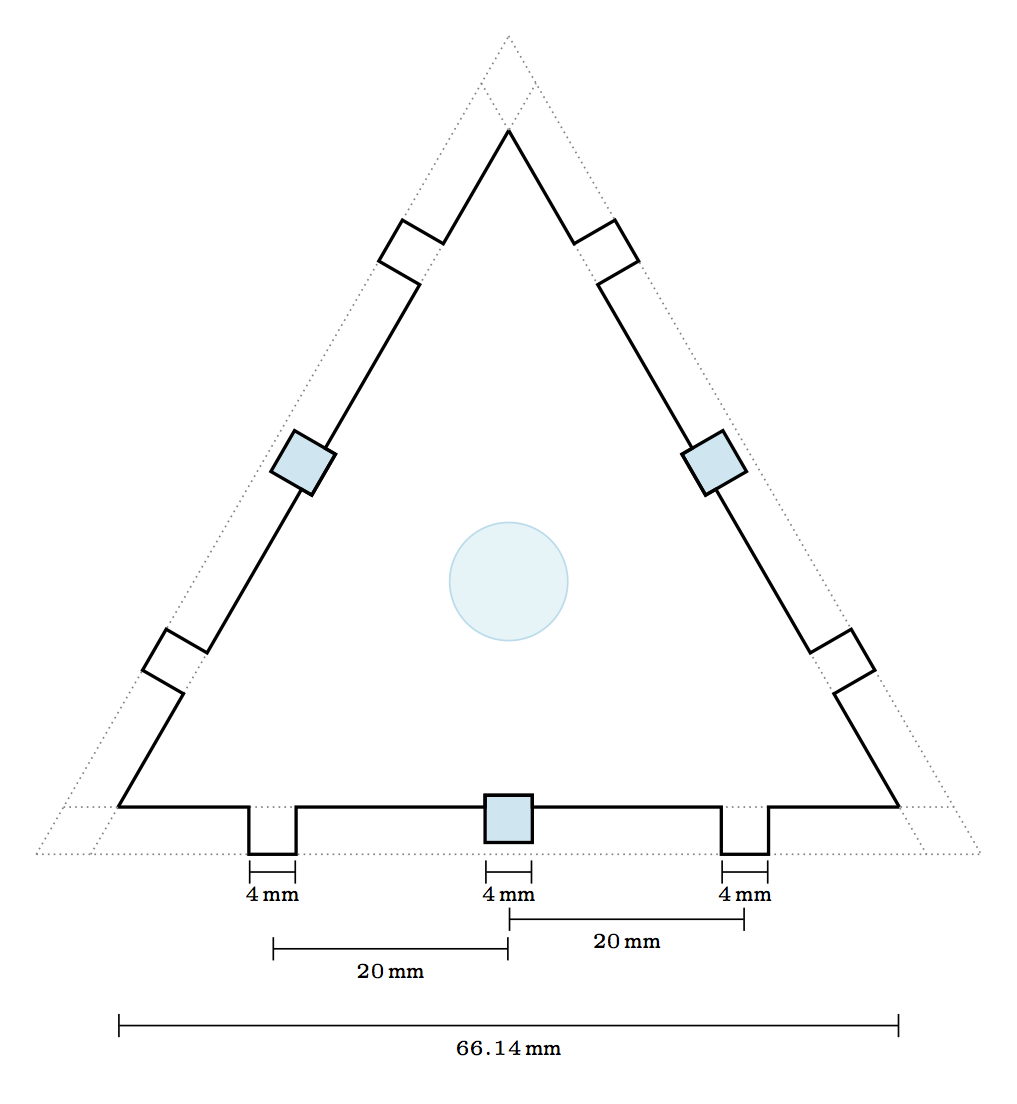
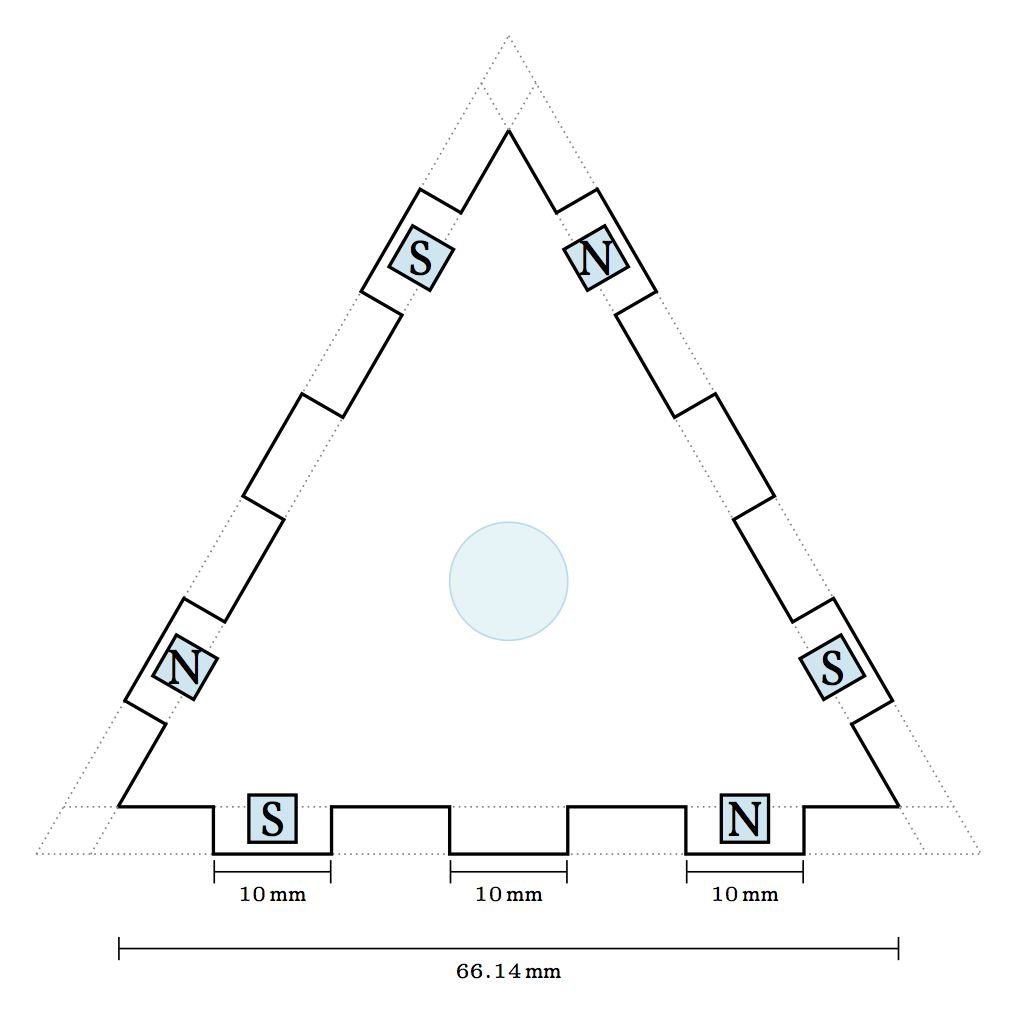
updates bottom pate form and magnet placement to be more symmetric.

diff --git a/tex/bottom.tex b/tex/bottom.tex
@@ -23,41 +23,48 @@
   \begin{tikzpicture}
     \draw[base] (-4,0) -- (4,0);
     \draw[base] ({- ( 4- \wTh*cot(60) )}, \wTh) -- ({4- \wTh*cot(60)},\wTh);
-    \draw[magnets] (-\mTh/2,5*\mTh/4) rectangle (\mTh/2,\mTh/4);
+    \draw [magnets] (-2-\mTh/2,5*\mTh/4) rectangle (-2+\mTh/2,\mTh/4);
+    \draw [magnets] (2-\mTh/2,5*\mTh/4) rectangle (2+\mTh/2,\mTh/4);
+    \node (A2) at (-2,3*\mTh/4) {\large S};
+    \node (A1) at (2,3*\mTh/4) {\large N};
     \draw[main] ({- ( 4- \wTh*cot(60) - \wTh/sin(60) )}, \wTh)
-      -- (-2-\wTh/2,\wTh) -- (-2-\wTh/2,0) -- (-2+\wTh/2,0) -- (-2+\wTh/2,\wTh)
-      -- (-\mTh/2,\wTh) -- (-\mTh/2,5*\wTh/4) -- (\mTh/2,5*\wTh/4) -- (\wTh/2,\wTh)
-      -- (2-\wTh/2,\wTh) -- (2-\wTh/2,0) -- (2+\wTh/2,0) -- (2+\wTh/2,\wTh) 
+      -- (-2.5,\wTh) -- (-2.5,0) -- (-1.5,0) -- (-1.5,\wTh)
+      -- (-.5,\wTh) -- (-.5,0) -- (.5,0) -- (.5,\wTh)
+      -- (1.5,\wTh) -- (1.5,0) -- (2.5,0) -- (2.5,\wTh) 
       -- ({4- \wTh*cot(60) - \wTh/sin(60)},\wTh);
     \begin{scope}[shift={(-2,{2*sqrt(3)})},rotate=60]
       \draw[base] (-4,0) -- (4,0);
       \draw[base] ({- ( 4- \wTh*cot(60) )},-\wTh) -- ({4- \wTh*cot(60)},-\wTh);
-      \draw[magnets] (-\mTh/2,-5*\mTh/4) rectangle (\mTh/2,-\mTh/4);
-    \draw[main] ({- ( 4- \wTh*cot(60) - \wTh/sin(60) )},-\wTh)
-      -- (-2-\wTh/2,-\wTh) -- (-2-\wTh/2,0) -- (-2+\wTh/2,0) -- (-2+\wTh/2,-\wTh)
-      -- (-\mTh/2,-\wTh) -- (-\mTh/2,-5*\wTh/4) -- (\mTh/2,-5*\wTh/4) -- (\wTh/2,-\wTh)
-      -- (2-\wTh/2,-\wTh) -- (2-\wTh/2,0) -- (2+\wTh/2,0) -- (2+\wTh/2,-\wTh) 
+    \draw [magnets] (-2-\mTh/2,-5*\mTh/4) rectangle (-2+\mTh/2,-\mTh/4);
+    \draw [magnets] (2-\mTh/2,-5*\mTh/4) rectangle (2+\mTh/2,-\mTh/4);
+    \node (A2) at (-2,-3*\mTh/4) {\large N};
+    \node (A1) at (2,-3*\mTh/4) {\large S};
+    \draw[main] ({- ( 4- \wTh*cot(60) - \wTh/sin(60) )}, -\wTh)
+      -- (-2.5,-\wTh) -- (-2.5,0) -- (-1.5,0) -- (-1.5,-\wTh)
+      -- (-.5,-\wTh) -- (-.5,0) -- (.5,0) -- (.5,-\wTh)
+      -- (1.5,-\wTh) -- (1.5,0) -- (2.5,0) -- (2.5,-\wTh) 
       -- ({4- \wTh*cot(60) - \wTh/sin(60)},-\wTh);
     \end{scope}
     \begin{scope}[shift={(2,{2*sqrt(3)})},rotate=-60]
       \draw[base] (-4,0) -- (4,0);
       \draw[base] ({- ( 4- \wTh*cot(60) )},-\wTh) -- ({4- \wTh*cot(60)},-\wTh);
-      \draw[magnets] (-\mTh/2,-5*\mTh/4) rectangle (\mTh/2,-\mTh/4);
-    \draw[main] ({- ( 4- \wTh*cot(60) - \wTh/sin(60) )},-\wTh)
-      -- (-2-\wTh/2,-\wTh) -- (-2-\wTh/2,0) -- (-2+\wTh/2,0) -- (-2+\wTh/2,-\wTh)
-      -- (-\mTh/2,-\wTh) -- (-\mTh/2,-5*\wTh/4) -- (\mTh/2,-5*\wTh/4) -- (\wTh/2,-\wTh)
-      -- (2-\wTh/2,-\wTh) -- (2-\wTh/2,0) -- (2+\wTh/2,0) -- (2+\wTh/2,-\wTh) 
+    \draw [magnets] (-2-\mTh/2,-5*\mTh/4) rectangle (-2+\mTh/2,-\mTh/4);
+    \draw [magnets] (2-\mTh/2,-5*\mTh/4) rectangle (2+\mTh/2,-\mTh/4);
+    \node (A2) at (-2,-3*\mTh/4) {\large N};
+    \node (A1) at (2,-3*\mTh/4) {\large S};
+    \draw[main] ({- ( 4- \wTh*cot(60) - \wTh/sin(60) )}, -\wTh)
+      -- (-2.5,-\wTh) -- (-2.5,0) -- (-1.5,0) -- (-1.5,-\wTh)
+      -- (-.5,-\wTh) -- (-.5,0) -- (.5,0) -- (.5,-\wTh)
+      -- (1.5,-\wTh) -- (1.5,0) -- (2.5,0) -- (2.5,-\wTh) 
       -- ({4- \wTh*cot(60) - \wTh/sin(60)},-\wTh);
     \end{scope}
     % Neopixel in Scale
     \draw[neo] (0,{4/3*sqrt(3)}) circle (.5cm);
     % Masures
-    \draw[measure] (-2-\wTh/2,-.15) -- (-2+\wTh/2,-.15) node[midway,below] {\pgfmathparse{10*\wTh}\pgfmathprintnumber{\pgfmathresult}\,mm};
-    \draw[measure] (2-\wTh/2,-.15) -- (2+\wTh/2,-.15) node[midway,below] {\pgfmathparse{10*\wTh}\pgfmathprintnumber{\pgfmathresult}\,mm};
-    \draw[measure] (-\mTh/2,-.15) -- (\mTh/2,-.15) node[midway,below] {\pgfmathparse{10*\mTh}\pgfmathprintnumber{\pgfmathresult}\,mm};
-  \draw[measure] (-2,-.8) -- (0,-.8) node[midway,below] {\(20\)\,mm}; 
-  \draw[measure] (0,-.8+.25) -- (2,-.8+.25) node[midway,below] {\(20\)\,mm}; 
-    \draw[measure] ({-( 4- \wTh*cot(60)-\wTh/sin(60) )},-1.45) -- ({4- \wTh*cot(60)-\wTh/sin(60)},-1.45)
+    \draw[measure] (-2.5,-.15) -- (-1.5,-.15) node[midway,below]{\(10\)\,mm};
+    \draw[measure] (-.5,-.15) -- (.5,-.15) node[midway,below]{\(10\)\,mm};
+    \draw[measure] (1.5,-.15) -- (2.5,-.15) node[midway,below]{\(10\)\,mm};
+    \draw[measure] ({-( 4- \wTh*cot(60)-\wTh/sin(60) )},-.8) -- ({4- \wTh*cot(60)-\wTh/sin(60)},-.8)
      node[midway,below] {\pgfmathparse{10*(8-2*\wTh*cot(60) - 2*\wTh/sin(60) )}%
      \pgfmathprintnumber{\pgfmathresult}\,mm};
   \end{tikzpicture}

diff --git a/tex/side.tex b/tex/side.tex
@@ -45,39 +45,34 @@
           ({(4-\wTh*cot(60))},7) -- ({(4-\wTh*cot(60))-\wTh},7) --%
           ({(4-\wTh*cot(60))-\wTh},8);
   % bottom plate
-  \draw[minor] ({-(4-\wTh*cot(60))},1) rectangle ({(4-\wTh*cot(60))},1+\wTh);
-  % Magnets
-  \draw [magnets] (-\mTh/2,1) rectangle (\mTh/2,1+\mTh);  
-  \draw [magnets] (-\mTh/2,6) rectangle (\mTh/2,6+\mTh);  
+  \draw [magnets] (-2-\mTh/2,4-\mTh/2) rectangle (-2+\mTh/2,4+\mTh/2);  
+  \draw [magnets] (2-\mTh/2,4-\mTh/2) rectangle (2+\mTh/2,4+\mTh/2);  
+  \node (A) at (2,4) {\large N};
+  \node (A) at (-2,4) {\large S};
+  % 4944
   % bottom plate holes
-  \draw [holes] (-2-\wTh/2,1) rectangle (-2+\wTh/2,1+\wTh);
-  \draw [holes] (2-\wTh/2,1) rectangle (2+\wTh/2,1+\wTh);
-  \node (A) at (0,4) {\Large S};
-
+  \draw [holes] (-2.5,2-\wTh/2) rectangle (-1.5,2+\wTh/2);
+  \draw [holes] (-.5,2-\wTh/2) rectangle (.5,2+\wTh/2);
+  \draw [holes] (1.5,2-\wTh/2) rectangle (2.5,2+\wTh/2);
   %
   % Measures
   %
   % bottom
-  \draw[measure] (-2-\wTh/2,-.15) -- (-2+\wTh/2,-.15) node[midway,below] {\pgfmathparse{10*\wTh}\pgfmathprintnumber{\pgfmathresult}\,mm};
-  \draw[measure] (2-\wTh/2,-.15) -- (2+\wTh/2,-.15) node[midway,below] {\pgfmathparse{10*\wTh}\pgfmathprintnumber{\pgfmathresult}\,mm};
-  \draw[measure] (-\mTh/2,-.15) -- (\mTh/2,-.15) node[midway,below] {\pgfmathparse{10*\mTh}\pgfmathprintnumber{\pgfmathresult}\,mm};
-  \draw[measure] (-2,-.8) -- (0,-.8) node[midway,below] {\(20\)\,mm}; 
-  \draw[measure] (0,-.8+.25) -- (2,-.8+.25) node[midway,below] {\(20\)\,mm}; 
-  % top
-   \draw[measure] ({- ( 4- \wTh*cot(60) )},8.15+\wTh) -- (-2.5,8.15+\wTh)
-     node[midway,above] {\pgfmathparse{10*(1.5 - \wTh*cot(60))}%
-     \pgfmathprintnumber{\pgfmathresult}\,mm};
-    \draw[measure] (-2.5,8.15+\wTh+0.25) -- (-1.5,8.15+\wTh+0.25) node[midway, above]{\(10\)\,mm};
-    \draw[measure] (-1.5,8.15+\wTh) -- (-.5,8.15+\wTh) node [midway, above]{\(10\)\,mm};
-    \draw[measure] (-.5,8.15+\wTh+0.25) -- (.5,8.15+\wTh+0.25) node [midway, above]{\(10\)\,mm};
-    \draw[measure] (.5,8.15+\wTh) -- (1.5,8.15+\wTh) node [midway, above]{\(10\)\,mm};
-    \draw[measure] (1.5,8.15+\wTh+0.25) -- (2.5,8.15+\wTh+0.25) node [midway, above] {\(10\)\,mm};
-     \draw[measure] ({( 4- \wTh*cot(60)-\wTh )},8.15+\wTh) -- (2.5,8.15+\wTh)
-     node[midway,above] {\pgfmathparse{10*(1.5 - \wTh*cot(60)-\wTh)}%
-     \pgfmathprintnumber{\pgfmathresult}\,mm};
-  \draw[measure] ({- ( 4- \wTh*cot(60) )},8.8+\wTh) -- ({4- \wTh*cot(60)},8.8+\wTh)
-    node[midway,above] {\pgfmathparse{10*(8 - 2*\wTh*cot(60))}%
-    \pgfmathprintnumber{\pgfmathresult}\,mm};
+     \draw[measure] ({- ( 4- \wTh*cot(60) )},-.15) -- (-2.5,-.15)
+       node[midway,below] {\pgfmathparse{10*(1.5 - \wTh*cot(60))}%
+       \pgfmathprintnumber{\pgfmathresult}\,mm};
+      \draw[measure] (-2.5,-.15-.25) -- (-1.5,-.15-.25) node[midway, below]{\(10\)\,mm};
+      \draw[measure] (-1.5,-.15) -- (-.5,-.15) node [midway, below]{\(10\)\,mm};
+      \draw[measure] (-.5,-.15-.25) -- (.5,-.15-.25) node [midway, below]{\(10\)\,mm};
+      \draw[measure] (.5,-.15) -- (1.5,-.15) node [midway, below]{\(10\)\,mm};
+      \draw[measure] (1.5,-.15-.25) -- (2.5,-.15-.25) node [midway, below] {\(10\)\,mm};
+       \draw[measure] ({( 4- \wTh*cot(60) )},-.15) -- (2.5,-.15)
+       node[midway,below] {\pgfmathparse{10*(1.5 - \wTh*cot(60))}%
+       \pgfmathprintnumber{\pgfmathresult}\,mm};
+    \draw[measure] ({- ( 4- \wTh*cot(60) )},-.8) -- ({4- \wTh*cot(60)},-.8)
+      node[midway,below] {\pgfmathparse{10*(8 - 2*\wTh*cot(60))}%
+      \pgfmathprintnumber{\pgfmathresult}\,mm};
+    \draw[measure] (-4,-1.45) -- (4,-1.45) node [midway, below] {\(80\)\,mm};
   % left
   \draw[measure] (4.15+.25,8+\wTh) -- (4.15+.25,8) node[midway,right] {\pgfmathparse{10*\wTh}\pgfmathprintnumber{\pgfmathresult}\,mm};
   \draw[measure] (4.15,8) -- (4.15,7) node[midway,right] {\(10\)\,mm};

diff --git a/Readme.md b/Readme.md
@@ -1,6 +1,6 @@
 # Stackenlichten
 <div align="right"> by [@kellertuer](https://twitter,com/kellertuer), [@k4sp4r](https://twitter.com/k4sp4r)</div>
-<center><img src="png/logo.png" width="300"></center>
+<div align="center"><img src="png/logo.png" width="300"></div>
 
 ## Motivation
 The idea of this project is to provide a blueprint for single pixels, that
@@ -18,19 +18,19 @@ For bulding one of the pixels the following is required
 * a laser cutter
 
 ## Sketches
-<center><img src="png/top.png" width="50%"></center>
+<div align="center"><img src="png/top.png" width="50%"></div>
 Seen from the top, the pixel consists of 3 equal sides. with finger joints of
 1cm indicated in cyan (the fingers). The three sides are shortened, such that
 the edges don't overlap the triangular shape.
-<center><img src="png/top-plexi.png" width="50%"></center>
+<div align="center"><img src="png/top-plexi.png" width="50%"></div>
 The top plate made of plexi glas obtains a shape, that looks quite fance but is
 basically just the triangular shape with the fingers of `0.4x1 cm` cut out.
-<center><img src="png/side.png" width="50%"></center>
+<div align="center"><img src="png/side.png" width="50%"></div>
 Each side plate is made with equal fingers for the sides, but for each pixel
 two sides sould consists of the same pole pointing outward ([S]outh in the sketch)
 and one having the other. This yields South dominated or North dominated pixels,
 which should be produced in equal amounts.
-<center><img src="png/bottom.png" width="50%"></center>
+<div align="center"><img src="png/bottom.png" width="50%"></div>
 The bottom plate is placed 1cm inwards of the sides with 2 bolts for each side.
 The magnets should join into the sides by 3/4th (`3 mm`) the top one should be
 glued, the bottom one should be held by the bottom plate.
